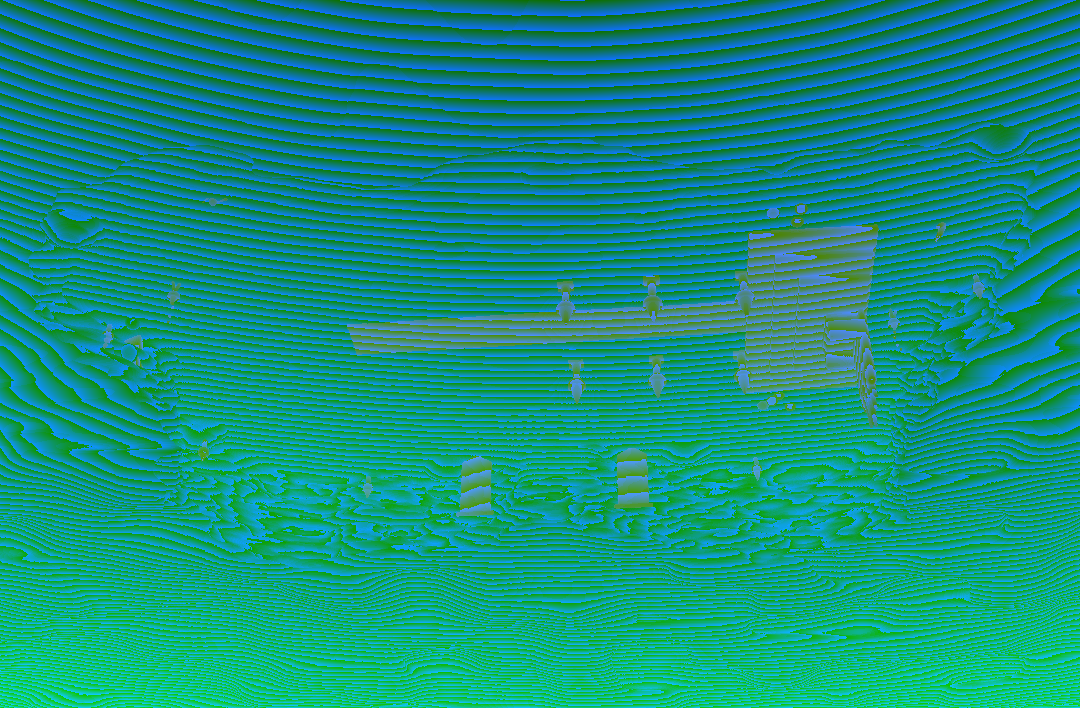
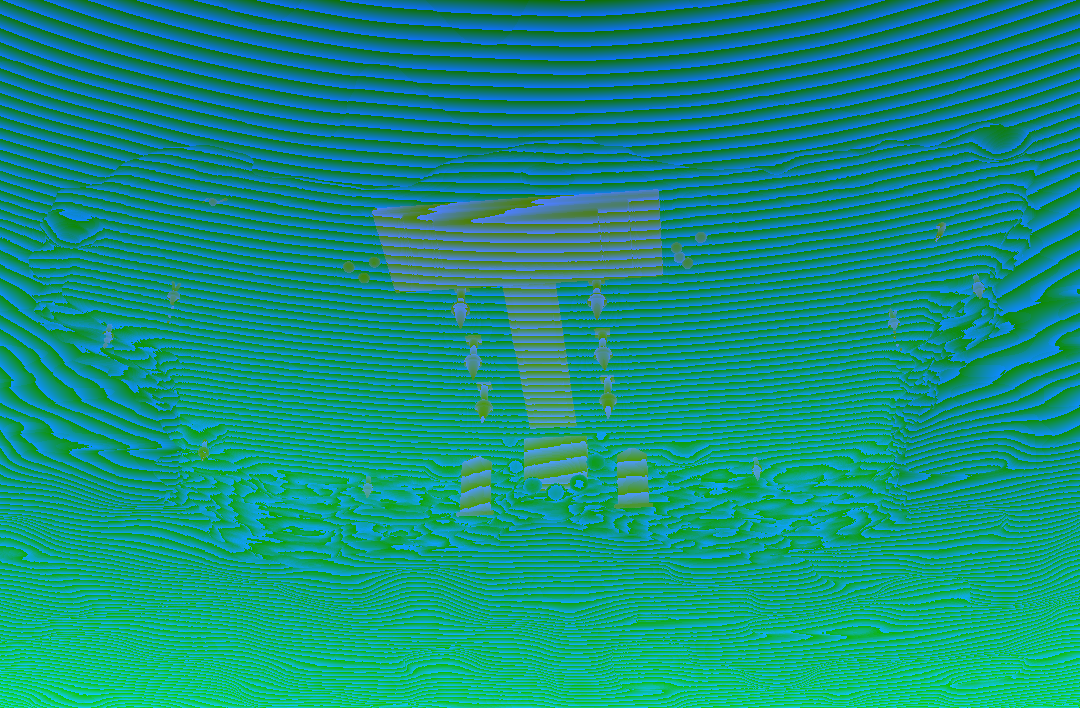
主の間の戦いを横向きから元に戻す
Claude-Session: https://claude.ai/code/session_01MpJPWy321815AwYbXUCf2V

diff --git a/index.html b/index.html
@@ -7212,7 +7212,7 @@ document.addEventListener("click", ev => {
 { const _oc2 = openChest19; openChest19 = function (S, c) { if (c.kind !== "lvall") return _oc2(S, c); if (!S.mons.length) return _oc2(S, c);
   return { text: "👑 覚醒", sub: "Lv+3 する子を1体えらんでね", sp: null, feed: 1, awaken: true, evos: [] }; }; }
 
-const VER20 = "No.209（11/18 21:11）";
+const VER20 = "No.210（11/18 21:20）";
 // ================= proto20：ダンジョンを見る画面と、配置する画面を分ける =================
 // ・ダンジョン画面：洞窟を大きく。部屋をタップ → 部屋ボード（全画面）
 // ・🧭育成：育てる→稼ぐ／守るの流れで見る。卒業Lv・毎朝おまかせ
@@ -10835,7 +10835,7 @@ const ROOMSET25 = {
   train: ["stake", "rocks", "ring", "pit1", "dummy", "rack", "torch", "stal", "gate", "gate2"],
   mine: ["ore", "rail", "pebble", "pick", "lamp", "torch", "stal", "gate", "gate2"],
   bed: ["bed", "pot", "torch", "stal", "gate", "gate2"],
-  lord: ["throneB", "gateW", "torch"],
+  lord: ["throneD", "gate", "torch"],
   lordday: ["throneD", "gate", "torch"],
   nest: ["nest", "crate", "torch", "stal", "gate", "gate2"],
   watch: ["ladder", "watch2", "crate", "torch", "stal", "gate", "gate2"],
@@ -10850,7 +10850,7 @@ function roomKind25(i){ const R = S.path[i] || {}; if (i === lordIdx(S)) return 
   return F.includes("train") ? "train" : F.includes("mine") ? "mine" : F.includes("bed") ? "bed" : R.fac === "mine" ? "mine" : R.fac === "bed" ? "bed" : R.fac === "train" ? "train" : F.includes("nest") || R.fac === "nest" ? "nest" : F.includes("watch") || R.fac === "watch" ? "watch" : F.includes("gate") || R.fac === "gate" ? "entry" : "plain"; }
 // 配った洞窟の絵（bg25/部屋の種類_c.png・_d.png）があれば、それを読み込む
 function setRoom25(i){ const C = B3.C; C.setRoom(B3.roomKey); const k = roomKind25(i); if (!BGSHIP25[k]) return; C.putBgImages(`bg25/${k}_c.png?v=${BGSHIP25[k]}`, `bg25/${k}_d.png?v=${BGSHIP25[k]}`, C.st.bgKey); }
-const BGSHIP25 = { train: "fd282ce3", mine: "f6c4e409", bed: "3f1c9fef", lord: "747617d1", plain: "43787f10", nest: "92cc858e", watch: "a7d8de73", entry: "a8a68ce5", train_mine: "52dcb95c", train_bed: "8fba5ad9", train_nest: "d84b8dc8", train_watch: "42cc71e7", mine_bed: "680cf510", mine_nest: "11aafbdb", mine_watch: "22b99272", bed_nest: "3d83bc11", bed_watch: "994ec677", nest_watch: "4e4b4c24", lordday: "41ce104d" };
+const BGSHIP25 = { train: "fd282ce3", mine: "f6c4e409", bed: "3f1c9fef", lord: "41ce104d", plain: "43787f10", nest: "92cc858e", watch: "a7d8de73", entry: "a8a68ce5", train_mine: "52dcb95c", train_bed: "8fba5ad9", train_nest: "d84b8dc8", train_watch: "42cc71e7", mine_bed: "680cf510", mine_nest: "11aafbdb", mine_watch: "22b99272", bed_nest: "3d83bc11", bed_watch: "994ec677", nest_watch: "4e4b4c24", lordday: "41ce104d" };
 function roomKey25(i){ const on = {}; ROOMSET25[roomKind25(i)].forEach(k => on[k] = true); return HAI25.room(on); }
 // ---- 3Dのキャラの種類 ----
 const heroSp25 = h => (typeof heroId === "function" ? String(heroId(h)).replace(/\d+$/, "") : h.job) || "warrior";
@@ -10860,7 +10860,7 @@ function kinds25(){ const K = {}, add = (sp, evo) => { const key = sp + ":" + ev
   return Object.values(K); }
 // ---- 部屋の中の立ち位置 ----
 const TUN25 = [0, -9.9], EXIT25 = [18.6, 0];
-const tun25 = () => (B3 && B3.room === lordIdx(S) ? [-17.4, 0] : TUN25);
+const tun25 = () => TUN25;
 function homeSpots25(i){ const ms = N.mons.filter(m => m.home === i); const on = {}; ROOMSET25[roomKind25(i)].forEach(k => on[k] = true);
   const cast = HAI25.place(on, ms.map(m => ({ sp: m.sp, evo: (m.ref && m.ref.evos) || 0, n: 1, act: "idle", id: m.ref.id })), 7 + i * 13);
   const out = {}; const left = ms.slice().sort((a, b) => HAI25.footR({ sp: b.sp, evo: (b.ref && b.ref.evos) || 0 }) - HAI25.footR({ sp: a.sp, evo: (a.ref && a.ref.evos) || 0 }));
@@ -10880,7 +10880,7 @@ function targets25(i){ const L = lordIdx(S), sp = B3.spots[i] || (B3.spots[i] = 
   const want = {};
   // 魔物
   N.mons.forEach(m => { const id = "m" + m.ref.id; if (m.pos !== i && !(B3.A[id] && B3.A[id].dying)) return; const s = sp[id] || [((m.ref.id * 37) % 11 - 5) * 2.2, 1 + ((m.ref.id * 13) % 5)]; want[id] = { x: s[0], z: s[1], key: m.sp + ":" + ((m.ref && m.ref.evos) || 0), hp: m.hp / m.max, down: m.down, name: m.ref.nick || "" }; });
-  if (i === L) want.lord = { x: 9.0, z: 0, key: "lord:0", hp: N.lord.hp / N.lord.max, down: N.lord.down, name: "主" };
+  if (i === L) want.lord = { x: 0, z: 3.0, key: "lord:0", hp: N.lord.hp / N.lord.max, down: N.lord.down, name: "主" };
   // 勇者
   const foes = Object.entries(want).filter(([k, v]) => !v.down);
   let n = 0;
@@ -10889,7 +10889,7 @@ function targets25(i){ const L = lordIdx(S), sp = B3.spots[i] || (B3.spots[i] = 
     if (h.st === "dead" && !(B3.A[id] && B3.A[id].dying)) { if (h.pos !== i) return; }
     if (!(here || comeIn || goOut || (B3.A[id] && B3.A[id].dying)) || h.st === "escaped") return;
     let x, z, enter = false, leave = false;
-    if (comeIn) { const tot = Math.max(1, (typeof corr10 === "function" ? corr10(S, i) : 2)), pr = 1 - Math.max(0, h.walk) / tot; const lr = i === lordIdx(S); x = tun25()[0] + (lr ? pr * 3.2 : (h.id % 3 - 1) * 0.9 * pr); z = tun25()[1] + (lr ? (h.id % 3 - 1) * 0.9 * pr : pr * 3.2); enter = true; }
+    if (comeIn) { const tot = Math.max(1, (typeof corr10 === "function" ? corr10(S, i) : 2)), pr = 1 - Math.max(0, h.walk) / tot; const lr = false; x = tun25()[0] + (lr ? pr * 3.2 : (h.id % 3 - 1) * 0.9 * pr); z = tun25()[1] + (lr ? (h.id % 3 - 1) * 0.9 * pr : pr * 3.2); enter = true; }
     else if (goOut) { x = EXIT25[0]; z = EXIT25[1] + (h.id % 3 - 1) * 0.8; leave = true; }
     else { // 戦う相手の近くへ
       const tg = B3.tgt[id] && want[B3.tgt[id]] && !want[B3.tgt[id]].down ? want[B3.tgt[id]] : foes.length ? foes[(h.id) % foes.length][1] : null;
